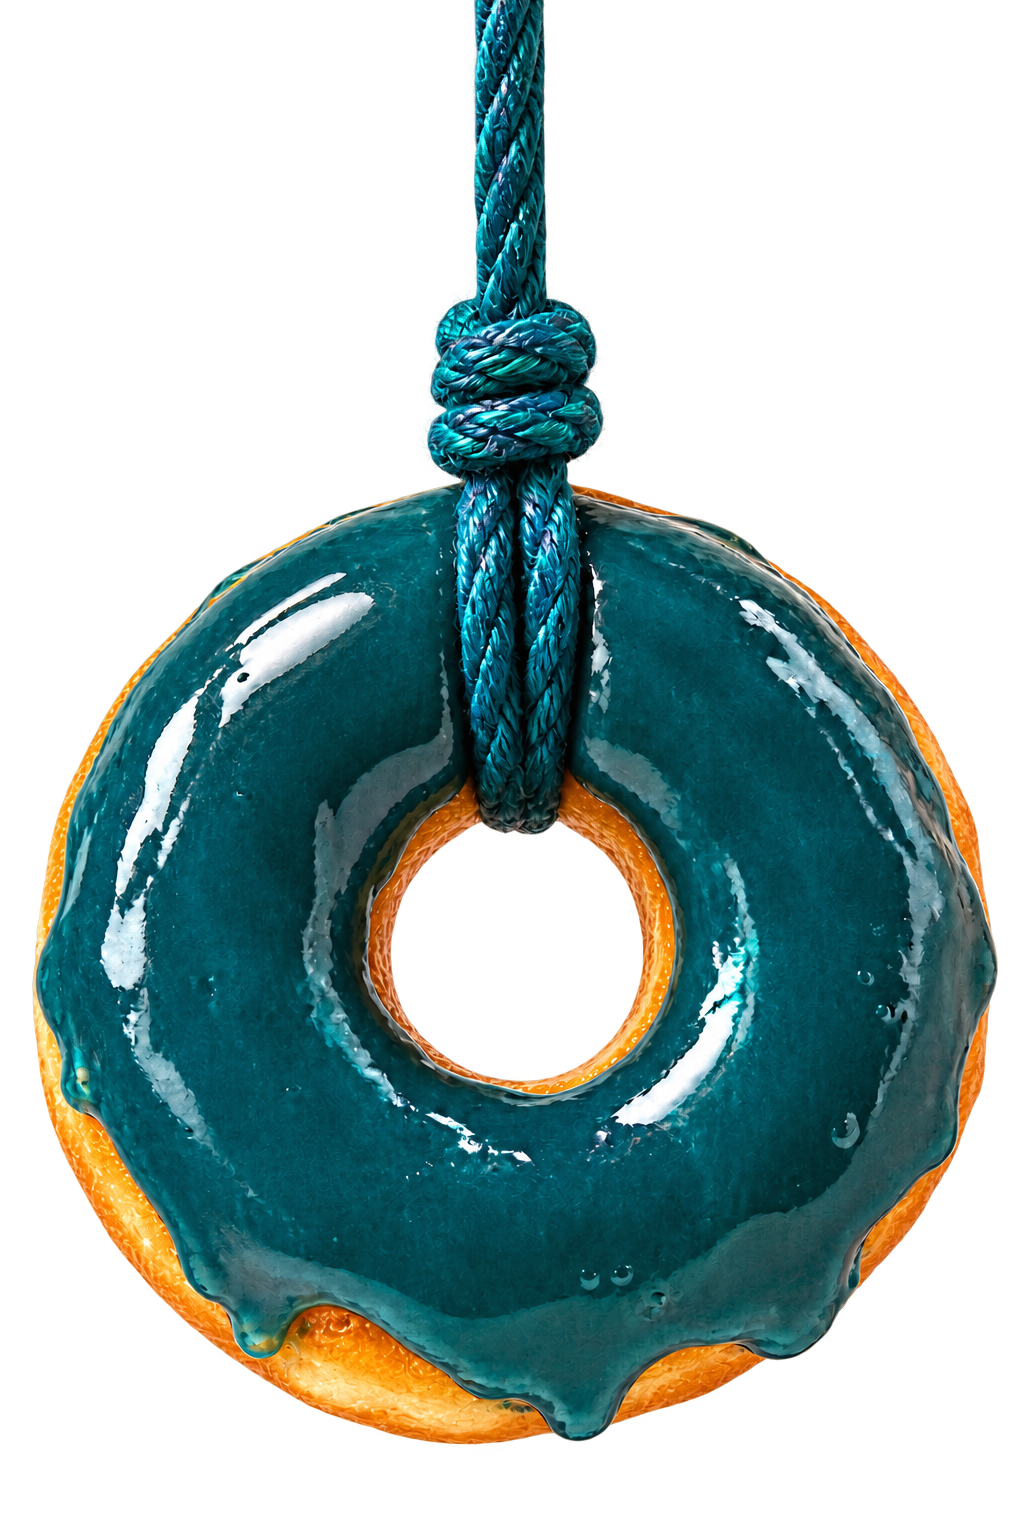
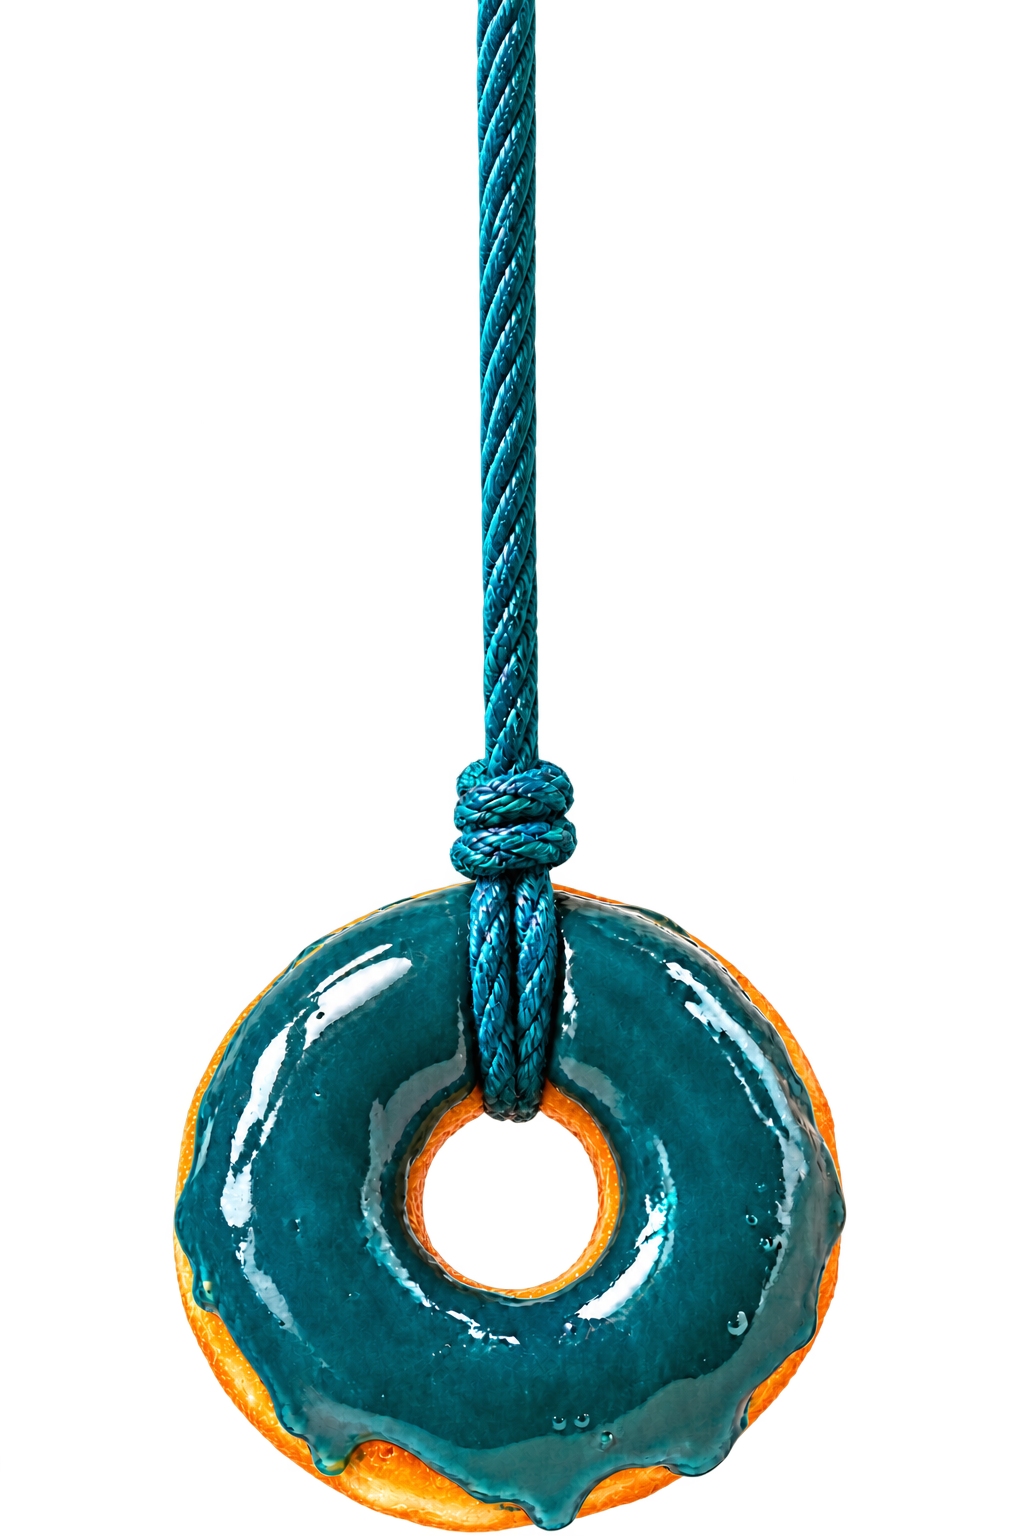
design: extend hanging donut rope in asset

diff --git a/src/components/sites/madie-es-a92149a5/root-8a5edab2/HeroSection.tsx b/src/components/sites/madie-es-a92149a5/root-8a5edab2/HeroSection.tsx
@@ -29,12 +29,7 @@ export function HeroSection() {
       />
       <div aria-hidden="true" className="madie-grain-ivory z-0" />
 
-      <div
-        aria-hidden="true"
-        className="pointer-events-none absolute top-0 left-1/2 z-[19] h-8 w-[10px] -translate-x-1/2 bg-[repeating-linear-gradient(135deg,#07515B_0,#07515B_3px,#0C7A86_3px,#0C7A86_6px)] shadow-[2px_0_5px_rgba(7,81,91,0.28)] sm:h-10 sm:w-3 lg:h-14"
-      />
-
-      <div className="pointer-events-none absolute top-8 left-1/2 z-20 w-[180px] -translate-x-1/2 sm:top-10 sm:w-[240px] lg:top-14 lg:w-[clamp(230px,20vw,300px)]">
+      <div className="pointer-events-none absolute top-0 left-1/2 z-20 w-[180px] -translate-x-1/2 sm:w-[240px] lg:w-[clamp(230px,20vw,300px)]">
         <Image
           alt="Donut artisanal bleu suspendu à une corde"
           className="h-auto w-full drop-shadow-[0_26px_30px_rgba(7,81,91,0.3)]"
